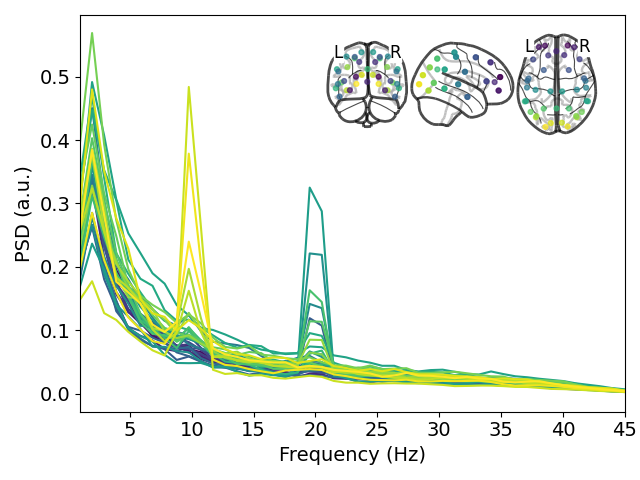
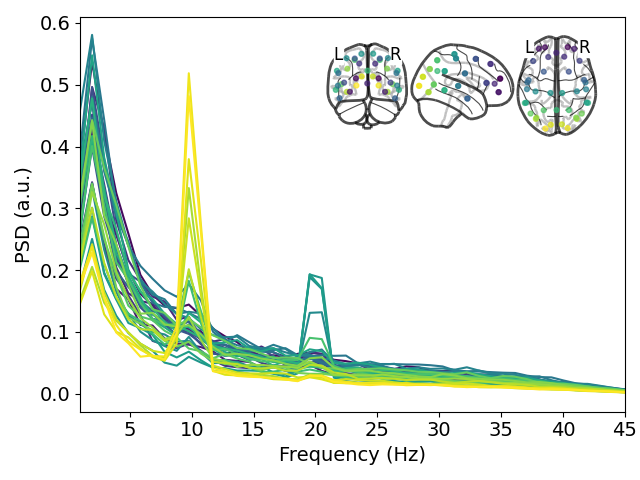
Added static network analysis.

Changed region(s): [[0.0, 0.0312, 0.9688, 0.8438], [0.0625, 0.6562, 0.125, 0.7188]]

diff --git a/4_static_analysis.py b/4_static_analysis.py
@@ -1,0 +1,52 @@
+"""Static network analysis.
+
+"""
+
+import os
+
+from osl_dynamics.data import Data
+from osl_dynamics.analysis import static, power, connectivity
+
+os.makedirs("plots", exist_ok=True)
+
+mask_file = "MNI152_T1_8mm_brain.nii.gz"
+parcellation_file = "fmri_d100_parcellation_with_PCC_reduced_2mm_ss5mm_ds8mm.nii.gz"
+
+# Load data
+data = Data("data/src/parc/parc-raw.fif")
+x = data.time_series()
+
+# Calculate multitaper spectra
+f, psd, coh = static.multitaper_spectra(
+    data=x,
+    sampling_frequency=250,
+    calc_coh=True,
+)
+
+# Calculate power maps and plot
+power_maps = [
+    power.variance_from_spectra(f, psd, frequency_range=[9, 11]),
+    power.variance_from_spectra(f, psd, frequency_range=[19, 21]),
+]
+power.save(
+    power_maps,
+    mask_file=mask_file,
+    parcellation_file=parcellation_file,
+    plot_kwargs={"symmetric_cbar": True},
+    filename="plots/static_pow_.png"
+)
+
+# Calculate coherence networks and plot
+conn_maps = [
+    connectivity.mean_coherence_from_spectra(f, coh, frequency_range=[9, 11]),
+    connectivity.mean_coherence_from_spectra(f, coh, frequency_range=[19, 21]),
+]
+connectivity.save(
+    conn_maps,
+    parcellation_file=parcellation_file,
+    threshold=0.98,
+    filename="plots/static_coh_.png",
+)
+
+# Delete temporary directory
+data.delete_dir()

diff --git a/2_simulate_data.py b/2_simulate_data.py
@@ -30,7 +30,9 @@ for parcel in range(n_parcels):
 
 voxel_assignments = np.zeros_like(parcellation)
 for voxel in range(n_voxels):
-    winning_parcel = np.argmax(parcellation[voxel, :])
+    if np.all(parcellation[voxel] == 0):
+        continue
+    winning_parcel = np.argmax(parcellation[voxel])
     voxel_assignments[voxel, winning_parcel] = 1
 
 # Simulate voxel data
@@ -40,7 +42,7 @@ voxel_data = 1e-12 * cn.powerlaw_psd_gaussian(exponent=1, size=(n_voxels, n_samp
 
 # Visual activity
 for parcel in [0, 1, 2, 3, 24, 25]:
-    A = 1e-12 * np.random.uniform(0.8, 1.2)
+    A = 5e-13 * np.random.uniform(0.8, 1.2)
     f = np.random.uniform(9.97, 10.03)
     phi = np.random.uniform(-0.2 * np.pi, 0.2 * np.pi)
     parcel_mask = voxel_assignments[:, parcel].astype(bool)
@@ -49,7 +51,7 @@ for parcel in [0, 1, 2, 3, 24, 25]:
 # Motor activity
 for parcel in [8, 9, 18, 19]:
     A = 5e-13 * np.random.uniform(0.8, 1.2)
-    f = np.random.uniform(19.95, 20.05)
+    f = np.random.uniform(19.97, 20.03)
     phi = np.random.uniform(-0.2 * np.pi, 0.2 * np.pi)
     parcel_mask = voxel_assignments[:, parcel].astype(bool)
     voxel_data[parcel_mask,:] += A * np.sin(2 * np.pi * f * t + phi)

diff --git a/3_source_reconstruct.py b/3_source_reconstruct.py
@@ -23,7 +23,7 @@ wrappers.beamform(
     preproc_file="data/simulation/sensor-raw.fif",
     smri_file=None,
     epoch_file=None,
-    chantypes="meg",
+    chantypes=["mag", "grad"],
     rank={"meg": 60},
     freq_range=[1, 45],
 )

diff --git a/README.md b/README.md
@@ -12,4 +12,16 @@ To run these scripts you need to install OSL (as well as other dependencies such
 
 We simulate 1/f noise and add 10 Hz activity in occiptial parcels and 20 Hz activity in motor parcels. We get the following parcel-space PSD after source reconstructing the simulated sensor data:
 
-![Results](data/src/parc/psd.png)
+<img src="data/src/parc/psd.png" width="400">
+
+Source reconstructed power map and coherence network for 9-11 Hz activity:
+<p>
+<img src="plots/static_pow_0.png" width="200">
+<img src="plots/static_coh_0.png" width="300">
+</p>
+
+Source reconstructed power map and coherence network for 19-21 Hz activity:
+<p>
+<img src="plots/static_pow_1.png" width="200">
+<img src="plots/static_coh_1.png" width="300">
+</p>
